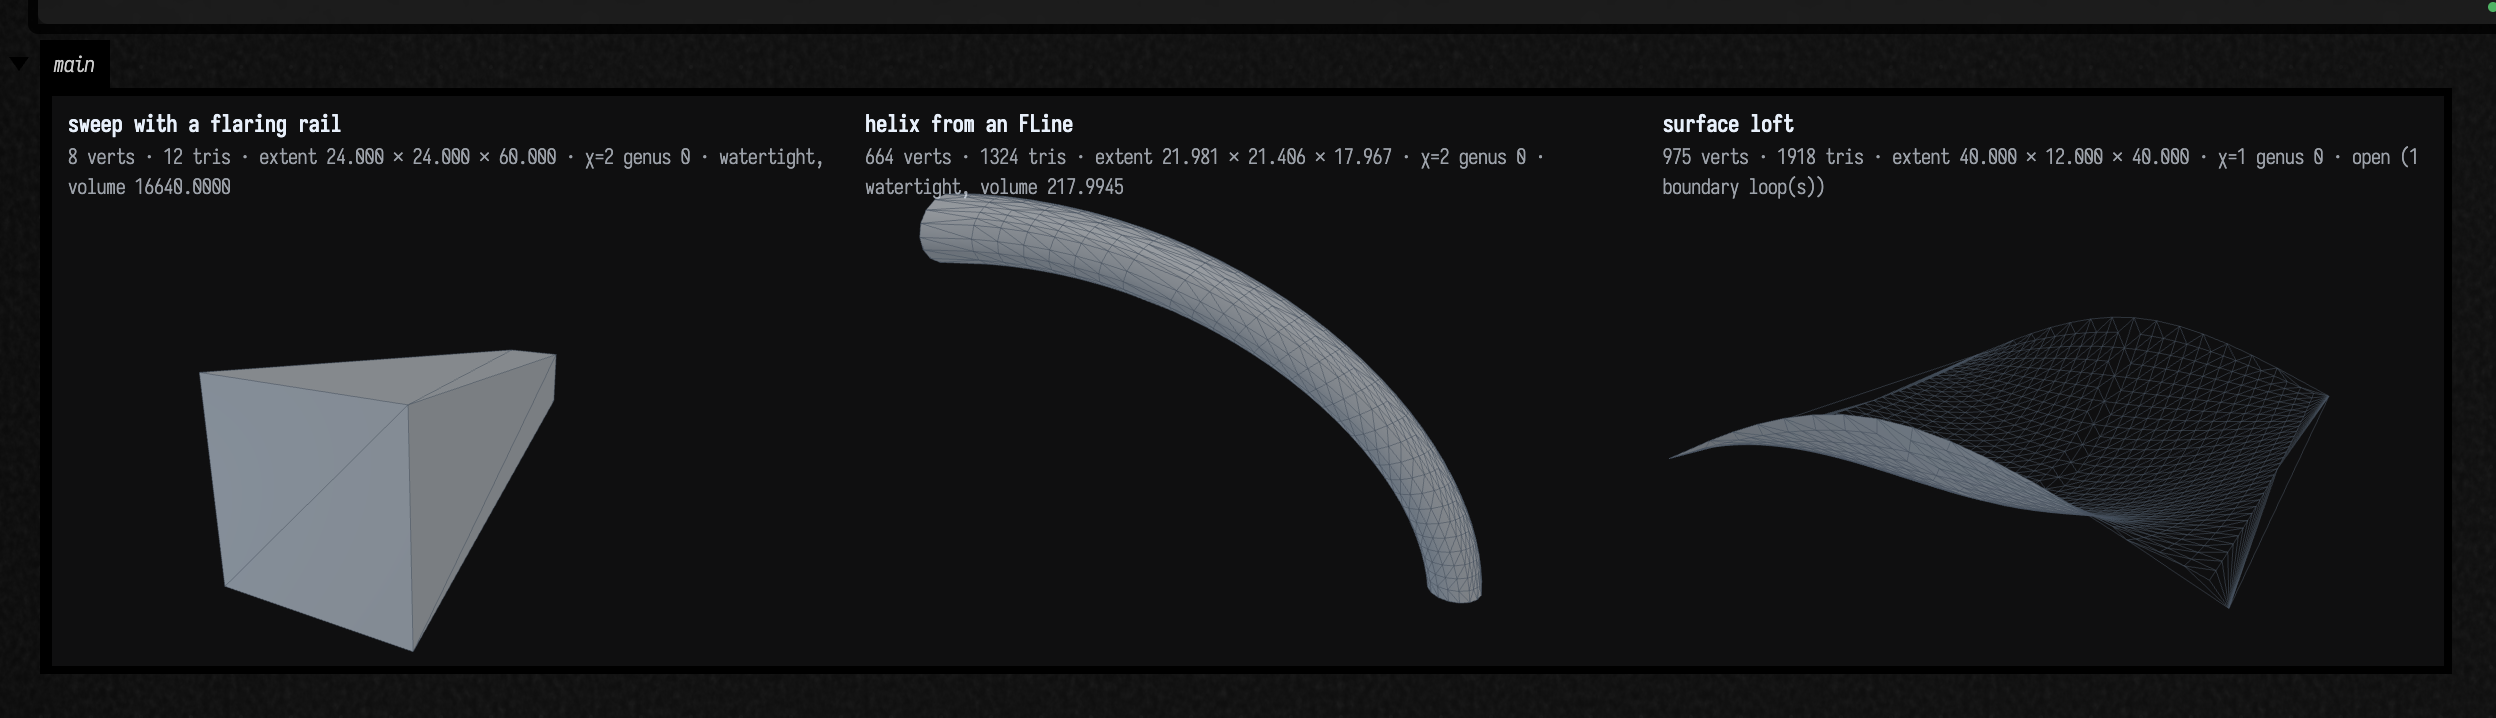
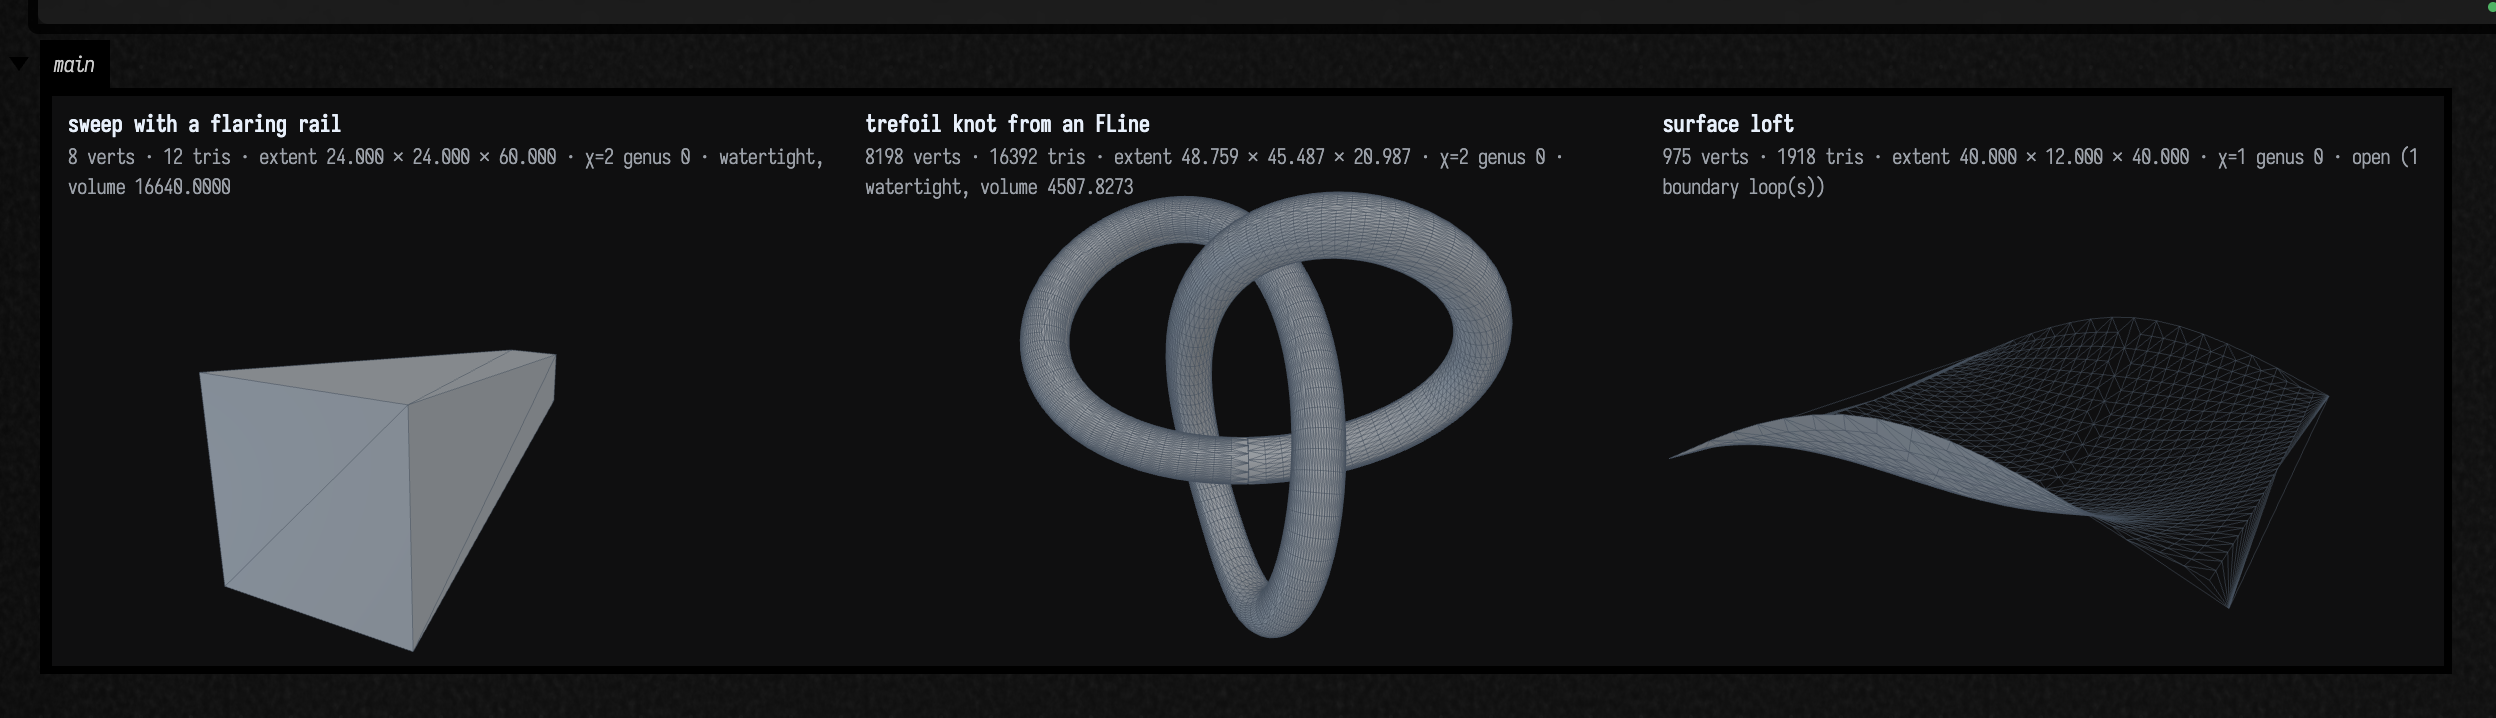
SolidCraft docs: sweep a trefoil-knot FLine instead of a quarter-turn arc
Adds planeSquareTo(line) so a profile starts square to an FLine path; the
smoke test checks the knotted tube's volume against pi r^2 x length.

Changed region(s): [[0.3438, 0.1532, 0.625, 0.8886]]

diff --git a/src/jvmMain/kotlin/afield/geometry/solid/solidcraft/SolidCraftBuilder.kt b/src/jvmMain/kotlin/afield/geometry/solid/solidcraft/SolidCraftBuilder.kt
@@ -67,7 +67,7 @@ class SolidCraftBuilder internal constructor(private val name: String, private v
         val planeJson = when (plane) {
             is String -> JSONObject().put("type", "origin").put("name", plane.uppercase())
             is JSONObject -> plane
-            else -> throw IllegalArgumentException("plane must be \"XY\", \"XZ\", \"YZ\" or offsetPlane(...), not $plane")
+            else -> throw IllegalArgumentException("plane must be \"XY\", \"XZ\", \"YZ\", offsetPlane(...) or planeSquareTo(...), not $plane")
         }
         val ref = add("Sketch", "sketch") { it.put("plane", planeJson).put("sketch", sketch.json()) }
         return SolidCraftSketchRef(ref.id, ref.name, sketch.curveIds.toList(), sketch.wireIds.toList())
@@ -76,6 +76,29 @@ class SolidCraftBuilder internal constructor(private val name: String, private v
     /** `base` (`"XY"`…) moved along its normal by `distance`, for stacking loft sections. */
     fun offsetPlane(base: String, distance: String): JSONObject =
         JSONObject().put("type", "offset").put("base", JSONObject().put("type", "origin").put("name", base.uppercase())).put("distance", distance)
+
+    /**
+     * The plane through the start of `line`, square to it there, with the sketch origin on the
+     * line. A profile drawn about (0, 0) on it sweeps along `wire(line)` as a true tube, because a
+     * sweep keeps the angle the profile was drawn at to the path's start.
+     */
+    fun planeSquareTo(line: FLine): JSONObject {
+        val cursor = line.cursor()
+        require(cursor.lengthD() > 0f) { "FLine has no length" }
+        cursor.setD(0f)
+        val o = cursor.position().let { doubleArrayOf(it.x.toDouble(), it.y.toDouble(), it.z.toDouble()) }
+        cursor.setD(minOf(1e-3f * cursor.lengthD(), 0.01f))
+        val q = cursor.position()
+        val n = normalize(doubleArrayOf(q.x - o[0], q.y - o[1], q.z - o[2]))
+        val helper = if (kotlin.math.abs(n[2]) < 0.9) doubleArrayOf(0.0, 0.0, 1.0) else doubleArrayOf(1.0, 0.0, 0.0)
+        val x = normalize(cross(helper, n))
+        val y = cross(n, x)
+        return JSONObject().put("type", "placed").put("origin", JSONArray(o.toList()))
+            .put("x_dir", JSONArray(x.toList())).put("y_dir", JSONArray(y.toList()))
+    }
+
+    private fun cross(a: DoubleArray, b: DoubleArray) = doubleArrayOf(a[1] * b[2] - a[2] * b[1], a[2] * b[0] - a[0] * b[2], a[0] * b[1] - a[1] * b[0])
+    private fun normalize(v: DoubleArray): DoubleArray = kotlin.math.sqrt(v.sumOf { it * it }).let { l -> DoubleArray(3) { v[it] / l } }
 
     /** Extrudes every closed profile of `sketch` by `distance` along its normal. */
     fun extrude(sketch: SolidCraftSketchRef, distance: String, operation: SolidCraftOperation = SolidCraftOperation.NEW_BODY, symmetric: Boolean = false, taper: String? = null) =

diff --git a/src/jvmMain/kotlin/afield/geometry/solid/solidcraft/SolidCraftBuilderSmokeTest.kt b/src/jvmMain/kotlin/afield/geometry/solid/solidcraft/SolidCraftBuilderSmokeTest.kt
@@ -95,14 +95,19 @@ object SolidCraftBuilderSmokeTest {
             check(v > 8.0 * 8.0 * 60.0 * 1.2) { "rail did not widen the sweep: $v" }
         }
 
-        // Sweep along a 3D wire made from a Field FLine (a helix quarter-turn rising in z).
-        case("sweep along FLine wire", solidCraft {
-            val section = sketch("XZ") { circle(20.0, 0.0, 1.5) }
-            val helix = FLine().moveTo(20f, 0f, 0f).also { l ->
-                for (i in 1..48) { val t = i / 48.0 * PI / 2; l.lineTo((20 * cos(t)).toFloat(), (20 * sin(t)).toFloat(), (i / 48.0 * 15).toFloat()) }
+        // Sweep along a 3D wire made from a Field FLine: a closed trefoil knot. The profile is drawn
+        // on the plane square to the knot's start, so the tube is true: volume = πr² × length.
+        val knot = FLine().moveTo(0f, -8f, 0f).also { l ->
+            for (i in 1..240) {
+                val t = i / 240.0 * 2 * PI
+                l.lineTo(8 * (sin(t) + 2 * sin(2 * t)), 8 * (cos(t) - 2 * cos(2 * t)), -8 * sin(3 * t))
             }
-            sweep(section, sketch("XY") { wire(helix, spacing = 1f) })
-        }) { d -> check(body(d).getDouble("volume") > 0.0) }
+        }
+        val knotLength = knot.cursor().lengthD().toDouble()
+        case("sweep along FLine trefoil", solidCraft {
+            val section = sketch(planeSquareTo(knot)) { circle(0.0, 0.0, 2.5) }
+            sweep(section, sketch("XY") { wire(knot, spacing = 0.5f) })
+        }) { d -> near("trefoil tube volume", body(d).getDouble("volume"), PI * 2.5 * 2.5 * knotLength, 3e-2) }
 
         case("loft", solidCraft {
             val a = sketch("XY") { rectangle(-10.0, -10.0, 10.0, 10.0) }

diff --git a/public/docs/solidcraft_building.md b/public/docs/solidcraft_building.md
@@ -13,11 +13,13 @@ covers the one-time build.
 
 The box below builds three designs and shows their meshes side by side. The first sweeps a square
 up a straight path while a guide rail runs from 4 to 12 mm off the path; the rail's default `SCALE` fit grows the
-whole square evenly with it, from 8 mm across to 24. The second sweeps a small circle along a Field `FLine`, a helix,
-turned into a 3D wire with `wire(helix)`. The third is a surface: a loft through three spline
+whole square evenly with it, from 8 mm across to 24. The second draws a trefoil knot as a Field
+`FLine`, turns it into a 3D wire with `wire(knot)`, and sweeps a circle along it into a knotted tube.
+The sweep caps both ends, so where the knot returns to its start the tube meets itself at a seam
+rather than fusing into a ring: the facts read genus 0, not the torus's genus 1. `planeSquareTo(knot)` puts the circle's sketch square to the knot where it starts. The third is a surface: a loft through three spline
 sections, which leaves an open, wavy sheet rather than a solid.
 
-```diffstatic_runner {data-lang=kotlin screenshot="assets/solidcraft/building-three-parts.png" alt="An output panel of three grey triangle meshes side by side, each with a fact line beneath it. Left, 'sweep with a flaring rail': a square-sectioned solid that widens evenly from 8 to 24 mm as it rises 60 mm, extent 24 × 24 × 60, volume 16640. Middle, 'helix from an FLine': a thin tube coiling a quarter turn upwards. Right, 'surface loft': a single wavy open sheet." wait="4" capture="box" open-outputs="true" padding="20" requires="solidcraft" name="building-three-parts" embed=true}
+```diffstatic_runner {data-lang=kotlin screenshot="assets/solidcraft/building-three-parts.png" alt="An output panel of three grey triangle meshes side by side, each with a fact line beneath it. Left, 'sweep with a flaring rail': a square-sectioned solid that widens evenly from 8 to 24 mm as it rises 60 mm, extent 24 × 24 × 60, volume 16640. Middle, 'trefoil knot from an FLine': a round tube tied in a three-lobed knot, passing over and under itself, its two capped ends meeting at a seam at the bottom; watertight, genus 0, volume 4507.8. Right, 'surface loft': a single wavy open sheet." wait="4" capture="box" open-outputs="true" padding="20" requires="solidcraft" name="building-three-parts" embed=true}
 import afield.geometry.solid.solidcraft.solidCraft
 import afield.geometry.path.FLine
 import afield.geometry.mesh.showMeshGrid
@@ -33,14 +35,14 @@ val flared = solidCraft("Flared") {
     sweep(section, path, rails = [rail])
 }
 
-val helix = FLine().moveTo(20, 0, 0)
-for (i in 1..48) {
-    val t = i / 48.0 * PI / 2
-    helix.lineTo(20 * cos(t), 20 * sin(t), i / 48.0 * 15)
+val knot = FLine().moveTo(0, -8, 0)
+for (i in 1..240) {
+    val t = i / 240.0 * 2 * PI
+    knot.lineTo(8 * (sin(t) + 2 * sin(2 * t)), 8 * (cos(t) - 2 * cos(2 * t)), -8 * sin(3 * t))
 }
-val coil = solidCraft("Coil") {
-    val section = sketch("XZ") { circle(20.0, 0.0, 1.5) }
-    sweep(section, sketch("XY") { wire(helix) })
+val tube = solidCraft("Trefoil") {
+    val section = sketch(planeSquareTo(knot)) { circle(0.0, 0.0, 2.5) }
+    sweep(section, sketch("XY") { wire(knot, spacing = 0.5f) })
 }
 
 val sheet = solidCraft("Sheet") {
@@ -55,7 +57,7 @@ fun mesh(design: afield.geometry.solid.solidcraft.SolidCraftBuilder) =
 
 showMeshGrid(
     "sweep with a flaring rail" to mesh(flared),
-    "helix from an FLine" to mesh(coil),
+    "trefoil knot from an FLine" to mesh(tube),
     "surface loft" to mesh(sheet),
     columns = 3,
 )
@@ -72,7 +74,8 @@ expressions — `"20"` in the design's units, `"90 deg"`, or a formula over `par
 ## What a sweep does with its profile
 
 A sweep keeps the profile at the angle it was drawn to the start of the path. Start the path
-square to the profile for a tube of the drawn size. A path that leaves it 27° off square gives a
+square to the profile for a tube of the drawn size; for a path from an `FLine`, draw the profile on
+`planeSquareTo(line)`. A path that leaves it 27° off square gives a
 section about `cos 27°` of the drawn one all the way along.
 
 Guide rails reshape the profile's far side to follow the rail: `railFit = SCALE` (the default)
